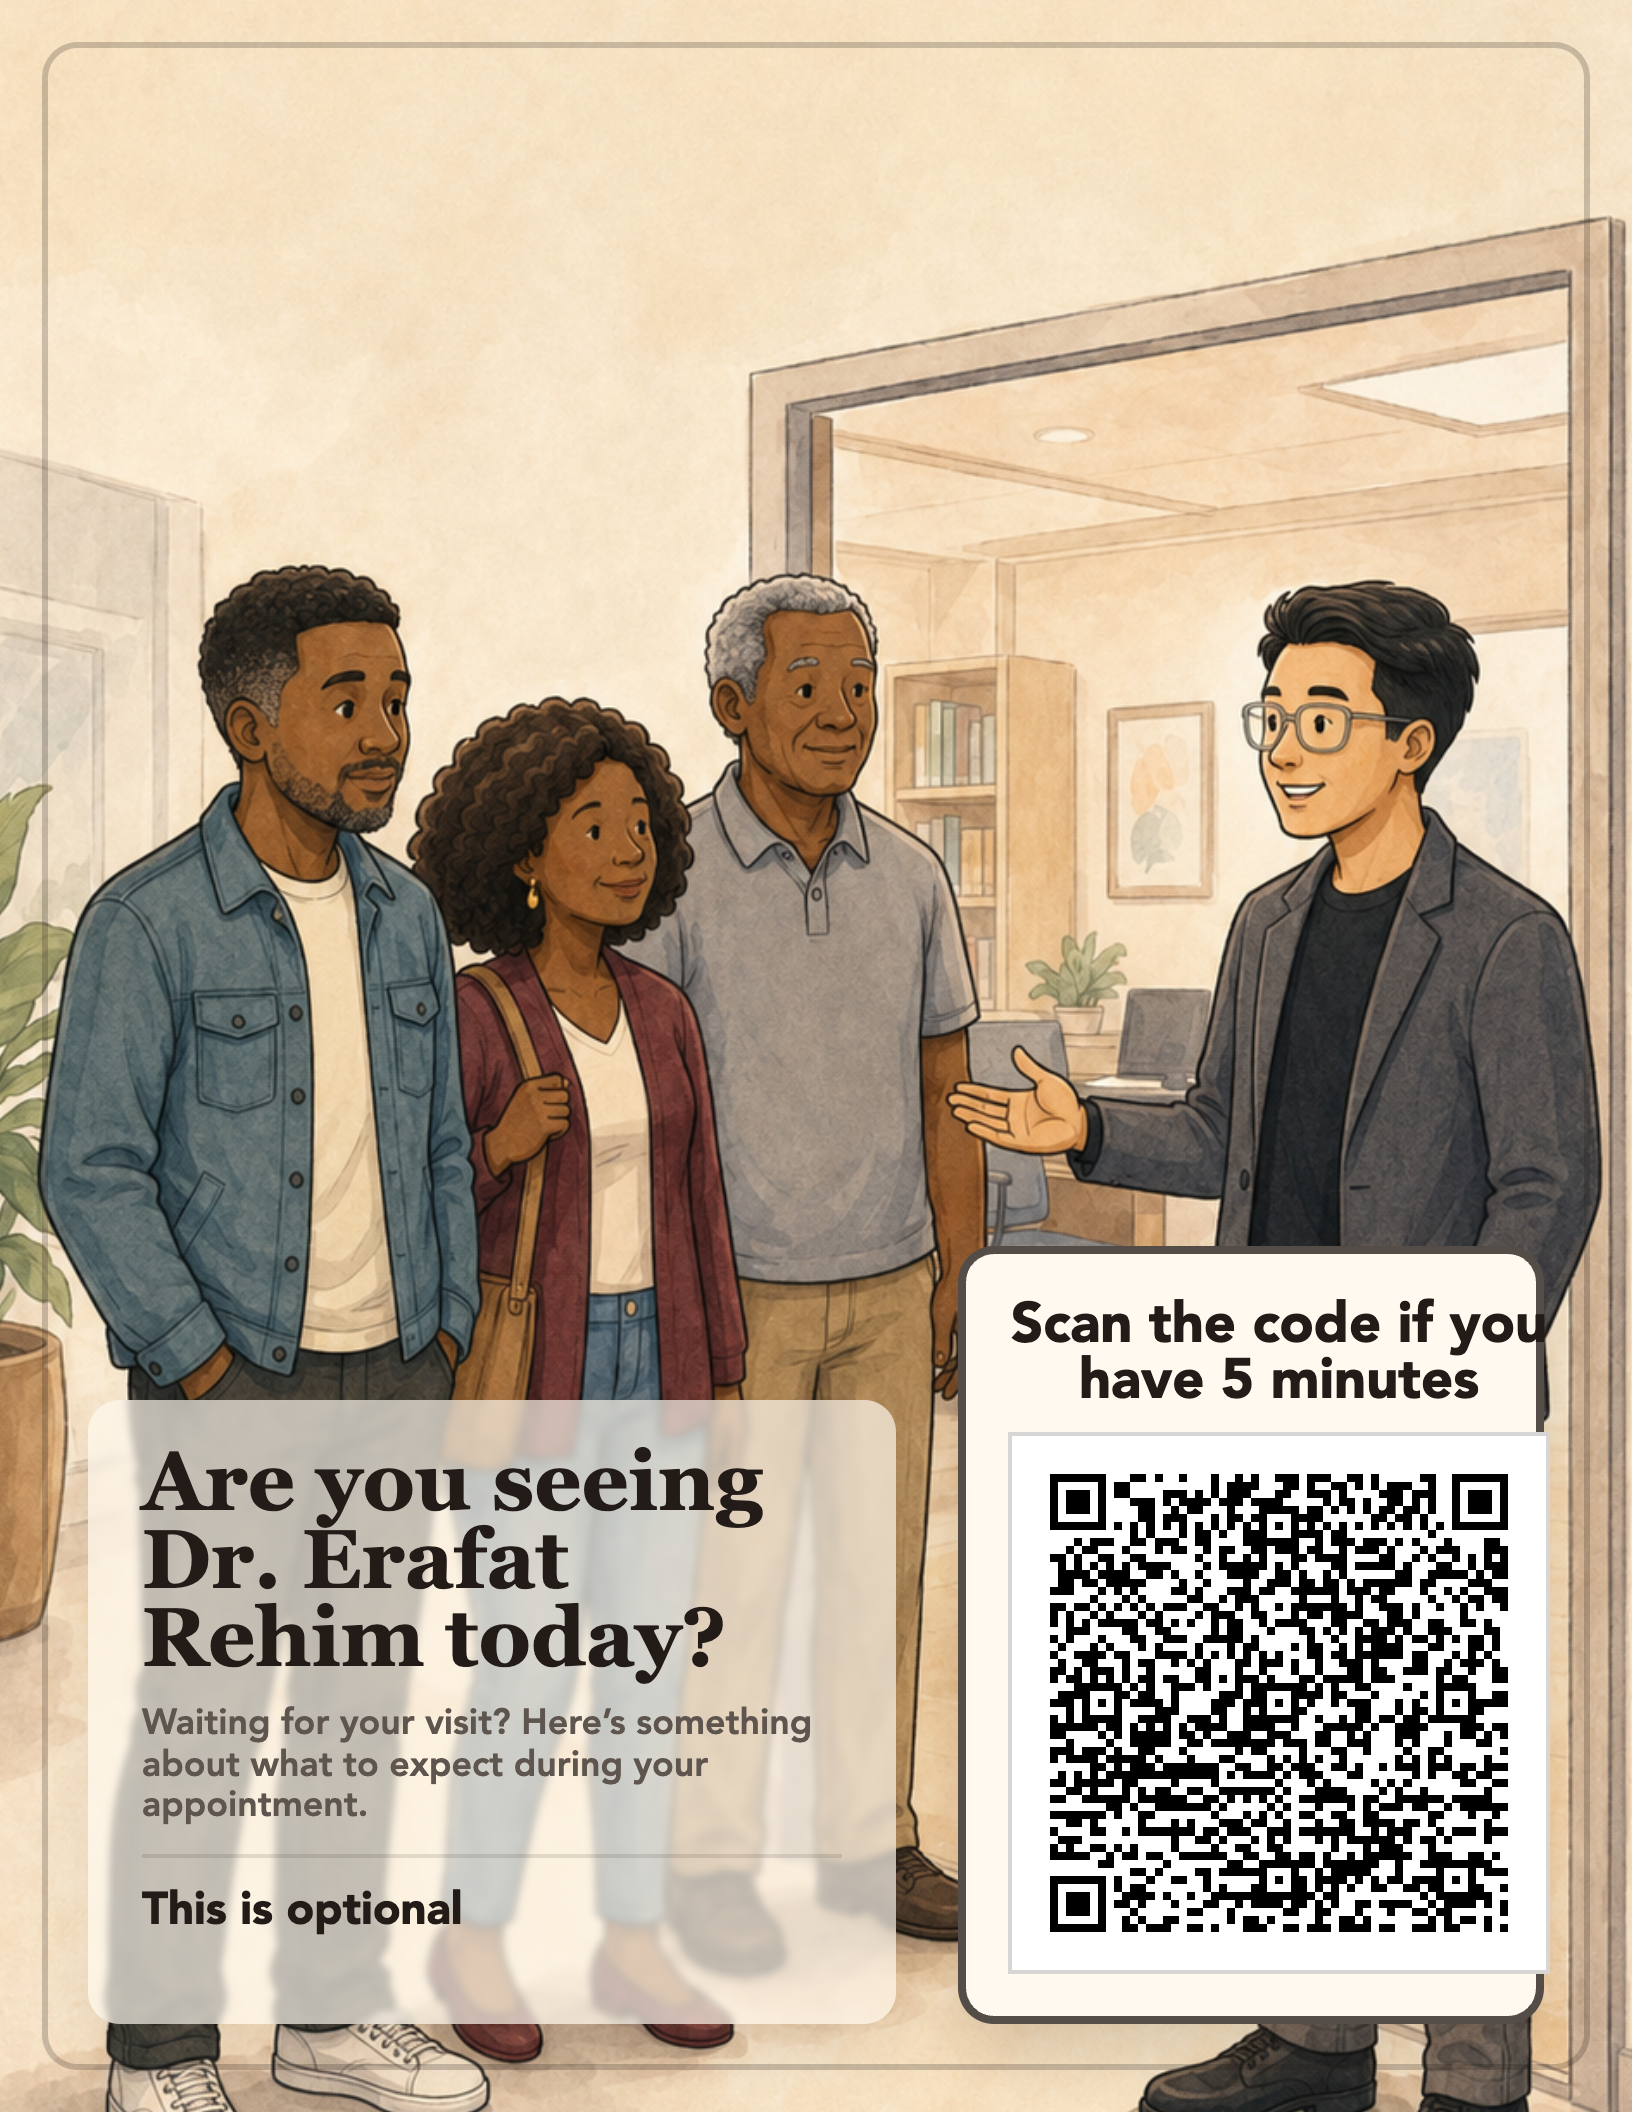
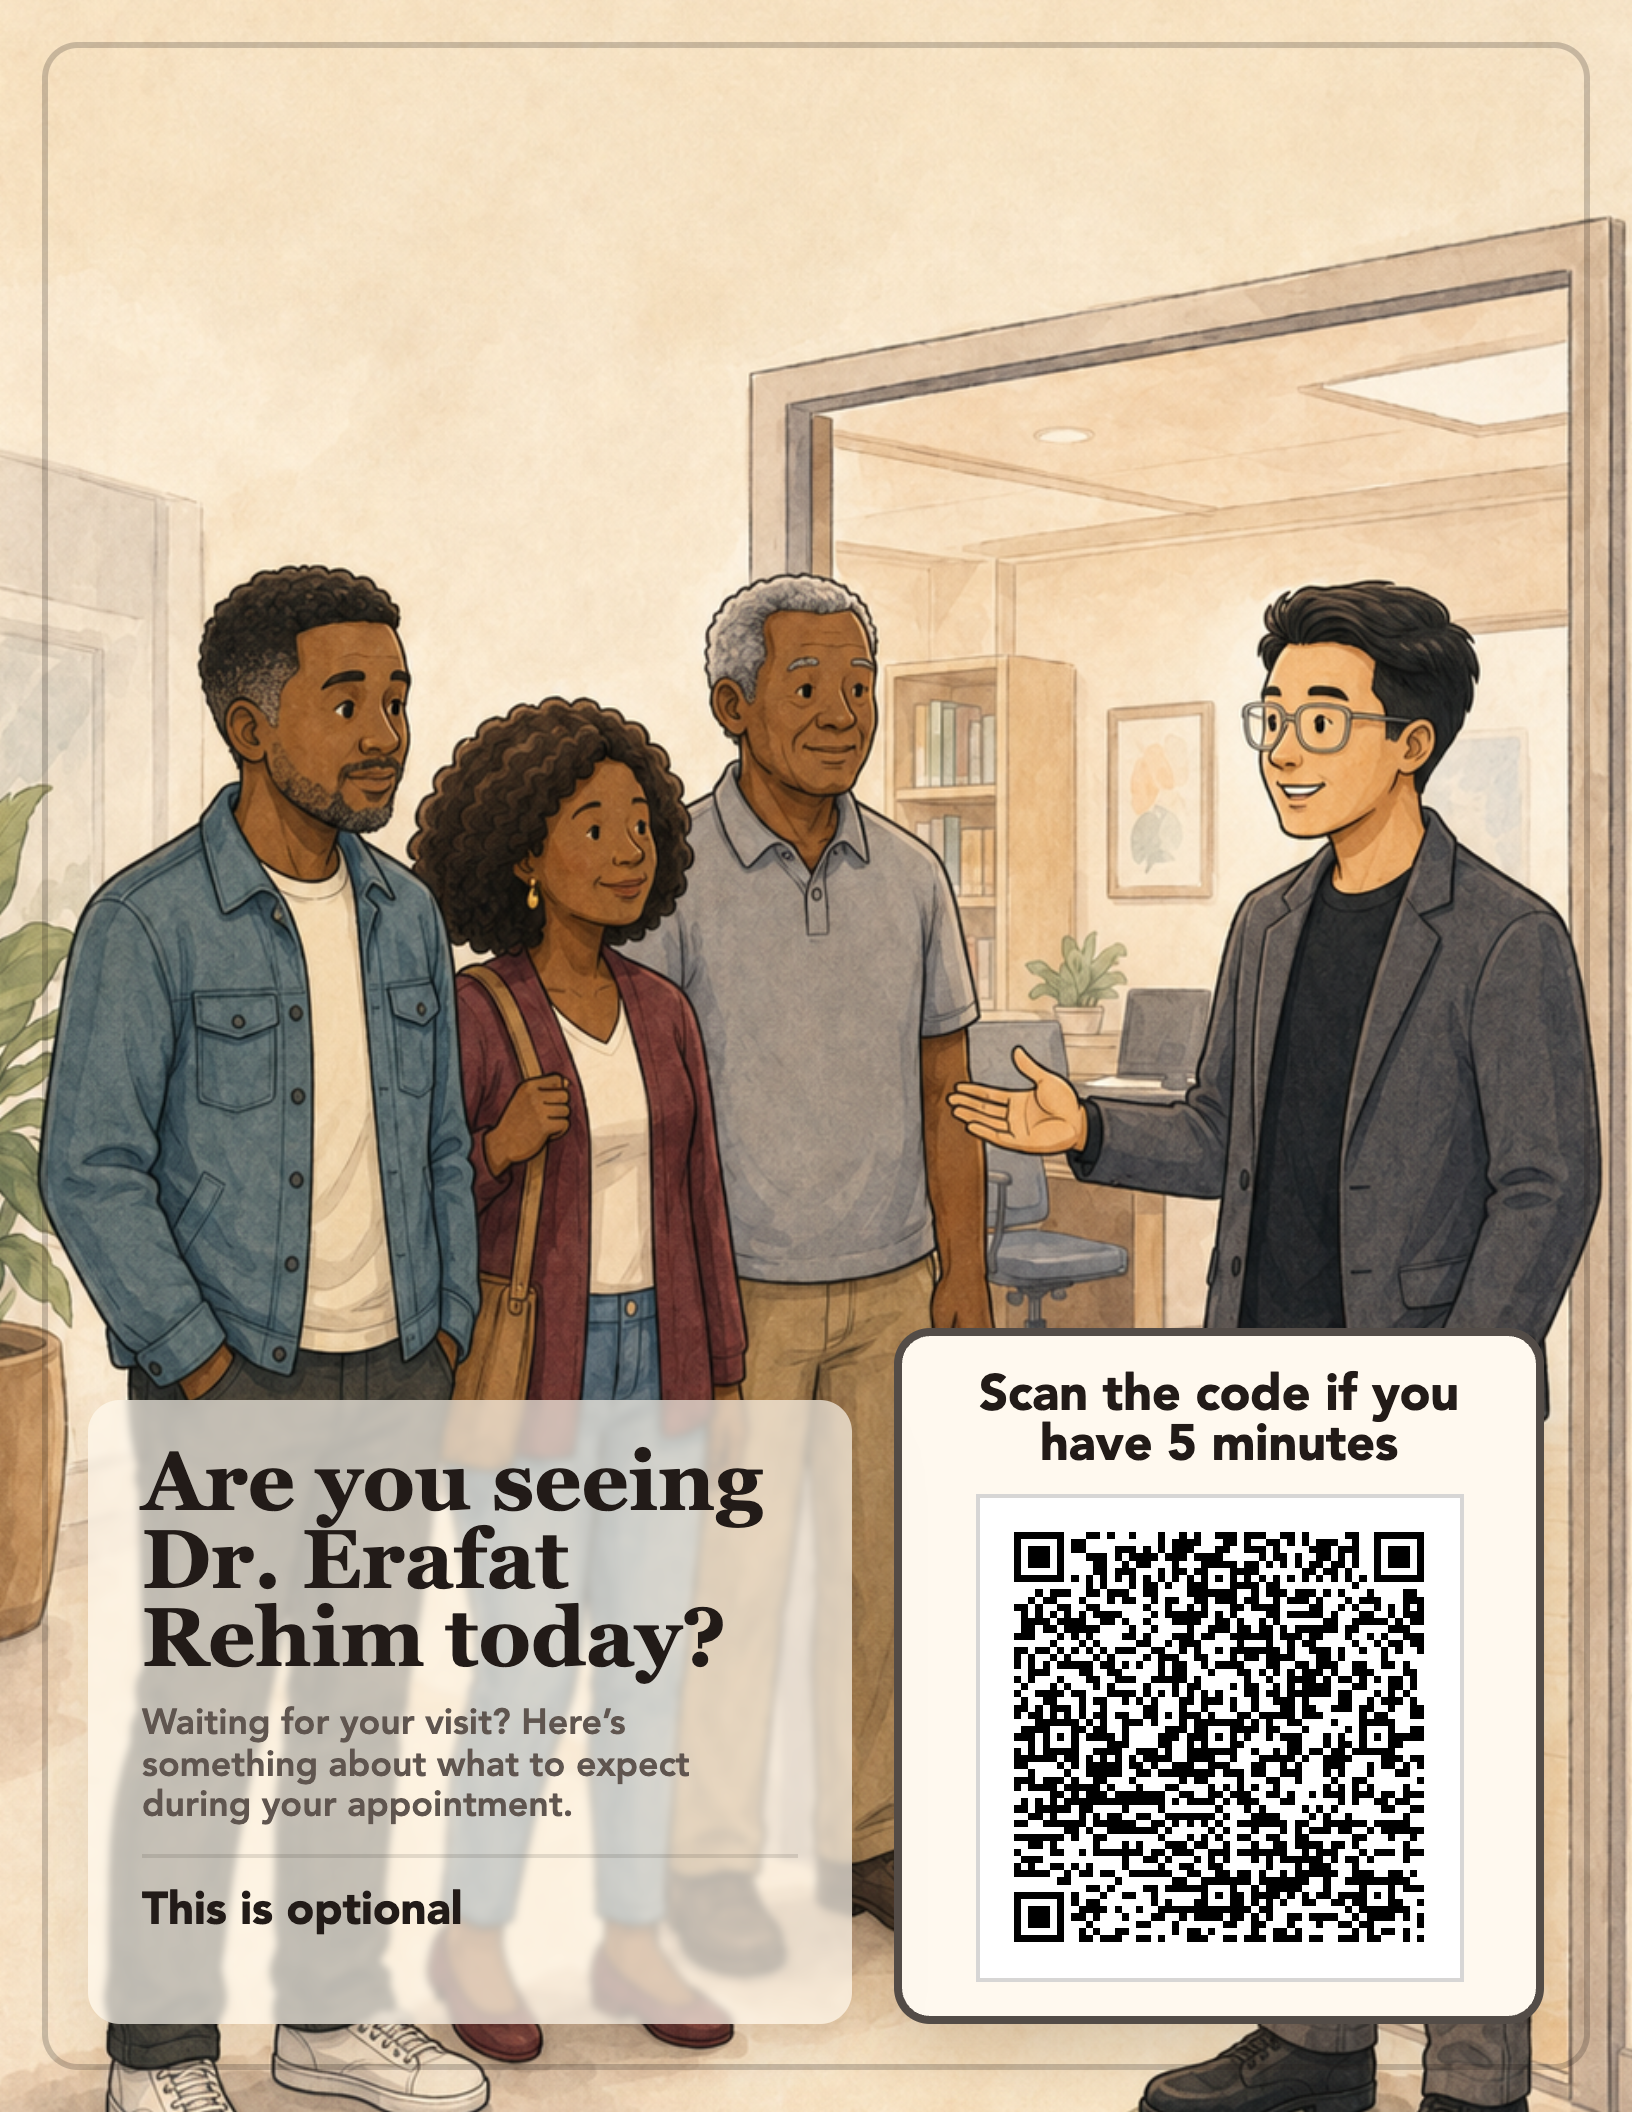
Fix flyer QR card layout

Changed region(s): [[0.0938, 0.5625, 0.9688, 0.9688]]

diff --git a/first-epilepsy-visit-mobile/prototype/first-visit-flyer.html b/first-epilepsy-visit-mobile/prototype/first-visit-flyer.html
@@ -68,8 +68,8 @@
 
     .main {
       display: grid;
-      grid-template-columns: 1fr 3.05in;
-      gap: 0.32in;
+      grid-template-columns: 1fr 3.38in;
+      gap: 0.22in;
       align-items: end;
       align-self: end;
     }
@@ -117,7 +117,8 @@
 
     .qr-card {
       align-self: end;
-      padding: 0.22in;
+      width: 100%;
+      padding: 0.18in;
       border: 4px solid rgba(34, 27, 24, 0.78);
       border-radius: 18px;
       background: var(--paper-solid);
@@ -129,15 +130,16 @@
 
     .qr-title {
       margin: 0;
-      font-size: 21pt;
+      max-width: 100%;
+      font-size: 18.8pt;
       line-height: 1;
       font-weight: 950;
       text-align: center;
     }
 
     .qr {
-      width: 2.82in;
-      height: 2.82in;
+      width: 2.54in;
+      height: 2.54in;
       padding: 0.08in;
       border: 2px solid rgba(34, 27, 24, 0.18);
       background: white;
